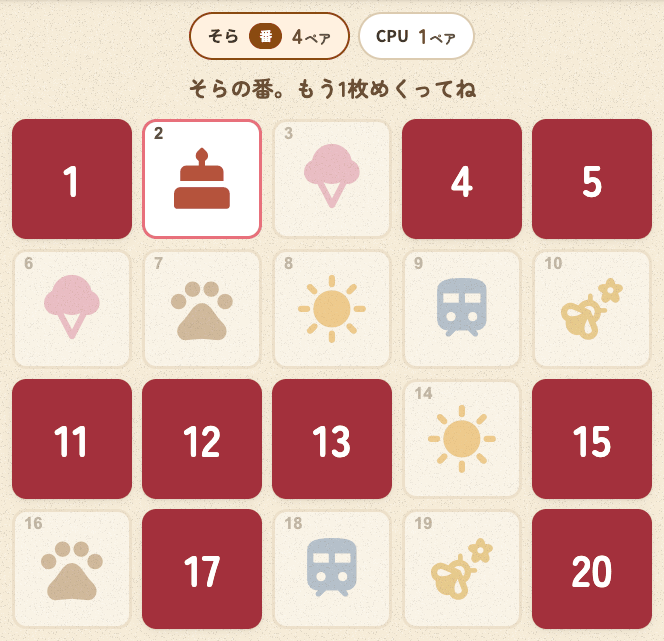
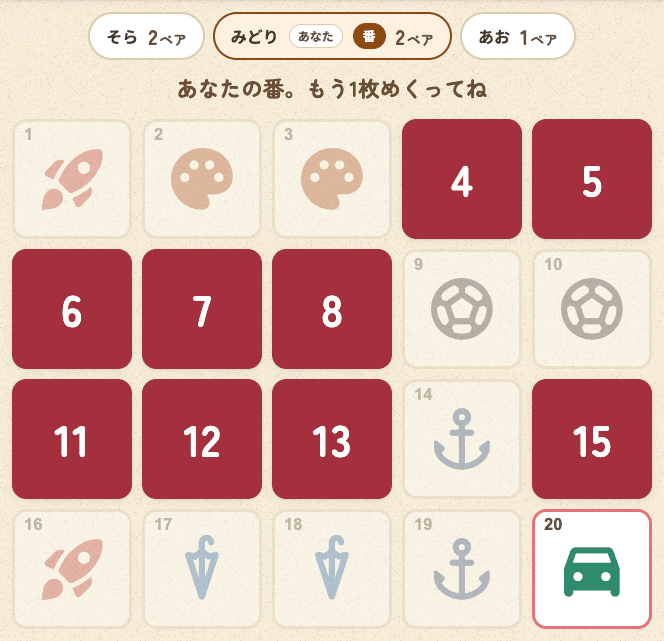
feat(shinkei-suijaku): ツール一覧のサムネイルをルームの画面で撮り直す
隔離エミュレーターで「そら」「みどり」「あお」のルームをふつう（20枚）で進め、
みどりの番で1枚めくった場面を名前の札から盤まで撮影（664×641 のまま）。
撮影用の tests/shinkei-suijaku/shot.cjs を足し、alt・撮影記録・更新情報を合わせた。

diff --git a/apps/index.html b/apps/index.html
@@ -3451,7 +3451,7 @@
           <div class="app-card__icon">
             <span class="material-symbols-rounded" aria-hidden="true">playing_cards</span>
             <img class="app-card__illust" src="assets/illustrations/shinkei-suijaku.webp" alt="" width="400" height="400" loading="lazy" decoding="async" />
-            <img class="app-card__thumbnail" src="assets/thumbnails/shinkei-suijaku.png" alt="番号のついた裏のカードと、1枚めくったケーキのカード・取って薄くなったカードが並ぶ20枚の場と、2人のペアの数" width="664" height="641" loading="lazy" decoding="async" />
+            <img class="app-card__thumbnail" src="assets/thumbnails/shinkei-suijaku.png" alt="番号のついた裏のカードと、1枚めくった車のカード・取って薄くなったカードが並ぶ20枚の場と、3人のペアの数（自分の名前に「あなた」と番の印）" width="664" height="641" loading="lazy" decoding="async" />
           </div>
           <div class="app-card__body">
             <div class="app-card__name">神経衰弱</div>

diff --git a/apps/shinkei-suijaku/AGENTS.md b/apps/shinkei-suijaku/AGENTS.md
@@ -154,7 +154,7 @@ CPU と対戦かどうか・むずかしさは分けていない。
 
 ## 特有のルール・制約
 
-- イラスト（`apps/assets/illustrations/shinkei-suijaku.webp`）は 2026-11-12 に作った（星のカードが2枚そろい、下に裏のカードが並ぶ絵。指示文は `scripts/illustrations/prompts.json`。6回めで採用）。ツール一覧のカードと、はじめの画面の絵の面（`.app-hero`）に出す。サムネイル（`apps/assets/thumbnails/shinkei-suijaku.png`）も同じ日に撮った（撮り方は docs/development/thumbnails.md。遊ぶ画面の見た目を変えたら撮り直す）
+- イラスト（`apps/assets/illustrations/shinkei-suijaku.webp`）は 2026-11-12 に作った（星のカードが2枚そろい、下に裏のカードが並ぶ絵。指示文は `scripts/illustrations/prompts.json`。6回めで採用）。ツール一覧のカードと、はじめの画面の絵の面（`.app-hero`）に出す。サムネイル（`apps/assets/thumbnails/shinkei-suijaku.png`）も同じ日に撮り、2026-11-16 にルームの画面で撮り直した（撮影は `tests/shinkei-suijaku/shot.cjs`。撮り方は docs/development/thumbnails.md。遊ぶ画面の見た目を変えたら撮り直す）
 - 盤は画面の高さに収まるように、幅を高さからも決めている（`.ss-board-wrap` の `max-width`。`--cols`・`--rows`・`--maxw` は `app.js` の `applyCols` が入れる）。600px 以下では列の数を減らす（`levels` の `colsSp`）
 - 取ったカードを薄くするとき、`.ss-card__inner` に `opacity` を付けない（3D の裏返しがつぶれて裏の面が出る）。面のほうに付ける
 - SVG の名前空間は、`index.html` の空の `<svg id="ss-svg-ns">` から取っている（試作用 lint が外部 URL の文字列を禁じていたため。そのままにしてある）

diff --git a/tests/shinkei-suijaku/README.md b/tests/shinkei-suijaku/README.md
@@ -8,6 +8,7 @@
 | `logic.test.cjs` | ルームの決まり（山札・はじめる・2〜6人・端末なしの参加者・めくる・そろう/ちがう・いない人をとばす・押せる人・自分の番で退出・おわり・もう一回・待合室にもどる・壊れた値・名前） |
 | `e2e1.cjs` | 1台の画面（通信しない）・作成・参加（リンク）・同じ名前・待合室（むずかしさ・端末のない人）・めくる（みんなの画面に出る・番でない人は押せない・ちがう・そろう・すばやく2枚）・端末のない人の番（ホストの代わり）・再読み込み・おわり・もう一回・375px・待合室にもどる・進行だけのホスト・ルームを閉じる |
 | `e2e2.cjs` | 6人まで（7人目・進行だけのホスト・遊ぶにもどせない）・途中参加は不可・自分の番で退出（めくりかけ）・同じ名前で入りなおし・タブを閉じた人の番をとばす・おわりのあとは参加できる・ホストの切断と復帰 |
+| `shot.cjs` | ツール一覧の画面の例を撮る（そら・みどり・あおのルーム、ふつう。出力は `SS_WORK/out/thumb.png`。リポジトリへは手で写し、256色にする） |
 | `lib.cjs` | 共通の部品（配信用サーバー・ルールの読み込み・本番あて通信の検出・画面の操作） |
 | `sync-site.sh` | `apps/shared` と `apps/shinkei-suijaku` を作業フォルダに写し、エミュレーター向けに差し替える |
 | `firebase.json` | エミュレーターのポート（auth 9451・database 9452・hub 4451・logging 4551） |
